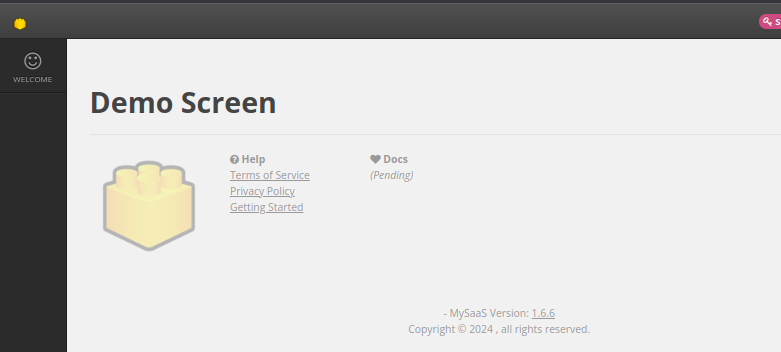
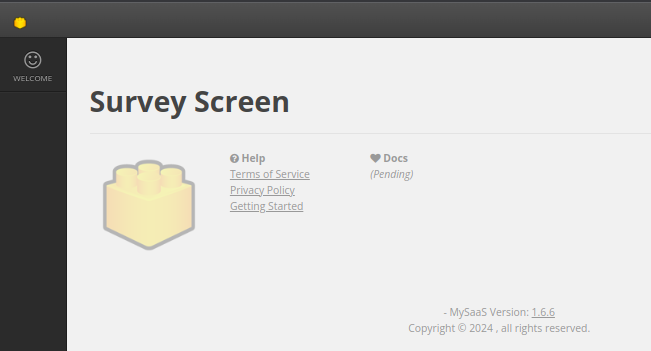
https://github.com/VyMECO/jarvis/issues/4

diff --git a/README.md b/README.md
@@ -1,12 +1,12 @@
 ![GitHub issues](https://img.shields.io/github/issues/leandrosardi/my.saas) ![GitHub](https://img.shields.io/github/license/leandrosardi/my.saas) ![GitHub tag (latest by date)](https://img.shields.io/github/v/tag/leandrosardi/my.saas) ![GitHub last commit](https://img.shields.io/github/last-commit/leandrosardi/my.saas)
 
-![logo](./public/core/images/logo.png)
+![logo](/public/core/images/logo.png)
 
 # MySaaS - Open Source SaaS Platform - Extensible and Scalable.  
 
 **MySaaS** is an open-source, extensible and scalable platform for develop your own Software as a Service (SaaS), e-Commerce, Education Platform, Social Network, Forum or any kind of memberships based product.
 
-![Example of What Can You Create with My.SaaS](./docu/thumbnails/dashboard.png)
+![Example of What Can You Create with My.SaaS](/docu/thumbnails/dashboard.png)
 
 **Outline:**
 
@@ -143,7 +143,7 @@ Now, you can navigatoe the my.saas website from the host browser:
 
 [http://127.0.0.1:3000/login](http://127.0.0.1:3000/login)
 
-![Login Screen](./docu/thumbnails/login.png)
+![Login Screen](/docu/thumbnails/login.png)
 
 You can login using the default credentials:
 - user: `su`
@@ -159,7 +159,7 @@ Every time you want to run a Ruby script using the my.saas framework, you have t
 export RUBYLIB=/home/blackstcack/code/my.saas
 ```
 
-E.g.: This [signup example](./examples/signup.rb) registers a new account in the database.
+E.g.: This [signup example](/examples/signup.rb) registers a new account in the database.
 
 ```bash
 export RUBYLIB=/home/blackstcack/code/my.saas
@@ -211,9 +211,9 @@ end
 
 ## 4. Models
 
-The folder [sql](./sql/) contains the database schema and the seed data for running my.saas. Read the files into the folder [sql](./sql/) and get familiarized with them.
+The folder [sql](/sql/) contains the database schema and the seed data for running my.saas. Read the files into the folder [sql](/sql/) and get familiarized with them.
 
-The folder [models/skeleton](./models/skeleton/) has [Sequel](https://sequel.jeremyevans.net/) defined clases to manage objects that persist in the database. 
+The folder [models/skeleton](/models/skeleton/) has [Sequel](https://sequel.jeremyevans.net/) defined clases to manage objects that persist in the database. 
 
 Any **persistance class** should inherit from `Sequel::Model`.
 
@@ -258,11 +258,11 @@ a.save
 
 ## 5. Adding Screens
 
-If you want to add a new screen, you have to modify the [app.rb](./app.rb) file.
+If you want to add a new screen, you have to modify the [app.rb](/app.rb) file.
 
 E.g.: Follow the steps below to add a new "demo page" to your project.
 
-1. add the lines below into the [app.rb](./app.rb) file:
+1. add the lines below into the [app.rb](/app.rb) file:
 
 ```ruby
 get '/demo' do
@@ -270,26 +270,26 @@ get '/demo' do
 end
 ```
 
-2. Restart the webserver by running the [start.rb](./cli/start.rb) script.
+2. Restart the webserver by running the [start.rb](/cli/start.rb) script.
 
 ```bash
 cd $RUBYLIB/cli
 ruby start.rb
 ```
 
-![Demo Screen](./docu/thumbnails/demo-screen.png)
+![Demo Screen](/docu/thumbnails/demo-screen.png)
 
 **Using the Layout for Public Pages:**
 
 You can embeed your HTML code into the same frame used by the [login screen](/views/login.erb) seen before.
 
-1. Save your HTML code into a new file into the [views](./views). In this example, it would be [views/demo.erb](./views/demo.erb).
+1. Save your HTML code into a new file into the [views](/views). In this example, it would be [views/demo.erb](/views/demo.erb).
 
 ```erb
 Demo Screen
 ```
 
-2. Write again the entry in the [app.rb](./app.rb) file.
+2. Write again the entry in the [app.rb](/app.rb) file.
 
 ```ruby
 get '/demo' do
@@ -297,14 +297,14 @@ get '/demo' do
 end
 ```
 
-Remember to restart the webserver by running the [start.rb](./cli/start.rb) script.
+Remember to restart the webserver by running the [start.rb](/cli/start.rb) script.
 
 ```bash
 cd $RUBYLIB/cli
 ruby start.rb
 ```
 
-![Demo Screen with Layout of Public Page](./docu/thumbnails/demo-screen-with-layout-of-public-page.png)
+![Demo Screen with Layout of Public Page](/docu/thumbnails/demo-screen-with-layout-of-public-page.png)
 
 **Using the Layout for Private Pages:**
 
@@ -312,13 +312,13 @@ The **private pages** are pages that require a login.
 
 E.g.: Follow the steps below to a **survey screen** to show up every when a new user signup.
 
-1. Save your HTML code into a new file into the [views](./views). In this example, it would be [views/survey.erb](./views/demo.erb).
+1. Save your HTML code into a new file into the [views](/views). In this example, it would be [views/survey.erb](/views/demo.erb).
 
 ```html
-<h1>Demo Screen</h1>
+<h1>Survey Screen</h1>
 ```
 
-2. Write again the entry in the [app.rb](./app.rb) file.
+2. Write again the entry in the [app.rb](/app.rb) file.
 
 ```ruby
 get '/survey', :auth => true do
@@ -326,15 +326,15 @@ get '/survey', :auth => true do
 end
 ```
 
-The `auth` condition will get the page forwarding to [login](./views/login.erb) if there are not any user logged in.
+The `auth` condition will get the page forwarding to [login](/views/login.erb) if there are not any user logged in.
 
 The `core` layout will embbed your HTML into a frame designed for private pages only.
 
-Remember to restart the webserver by running the [start.rb](./cli/start.rb) script.
+Remember to restart the webserver by running the [start.rb](/cli/start.rb) script.
 
 ```bash
 cd $RUBYLIB/cli
 ruby start.rb
 ```
 
-![Survey Screen](./docu/thumbnails/survey-screen.png)
+![Survey Screen](/docu/thumbnails/survey-screen.png)
